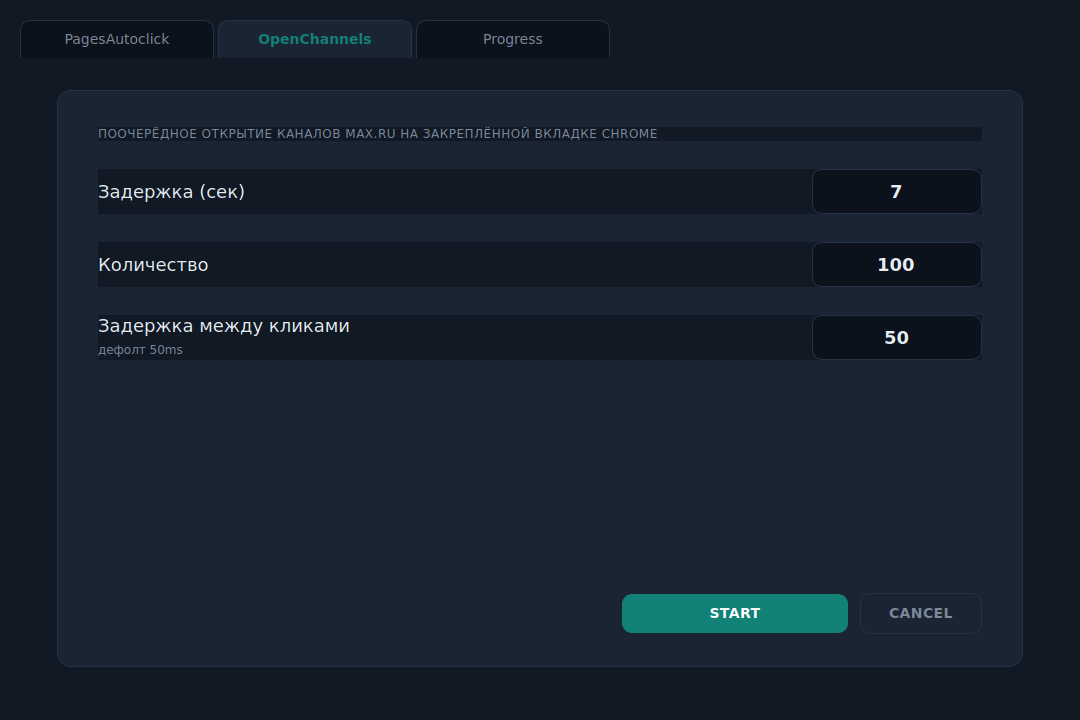
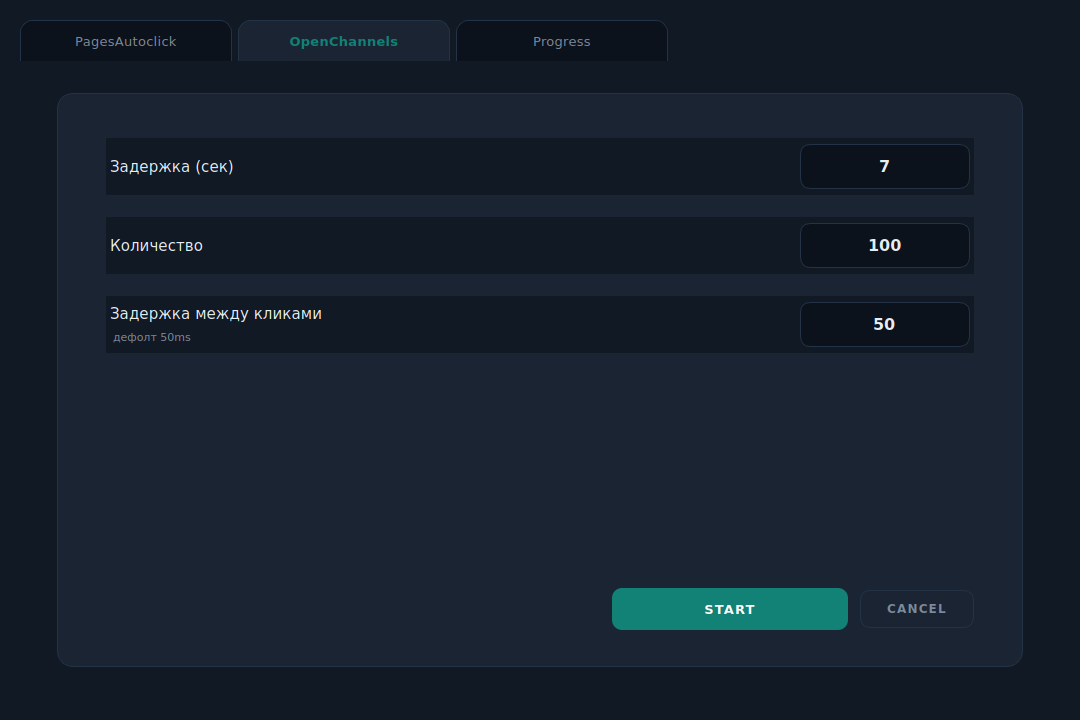
Update application interface with refined styling and layout adjustments
Refines UI styling by updating QSS, improving typography, spacing, and button appearance across all tabs, and updating mockups.

Replit-Commit-Author: Agent
Replit-Commit-Session-Id: fa9c77c0-7a4c-45c5-8648-3131b077b8af
Replit-Commit-Checkpoint-Type: full_checkpoint
Replit-Commit-Event-Id: 039f9c06-eed2-4d52-9831-ea6f28cf6dc1
Replit-Helium-Checkpoint-Created: true

diff --git a/desktop-app/main.py b/desktop-app/main.py
@@ -50,32 +50,35 @@ QSS = f"""
 QMainWindow, QWidget {{
     background-color: {BG_PRIMARY};
     color: {TEXT_PRIMARY};
-    font-family: 'Segoe UI', 'Inter', 'Helvetica Neue', Arial, sans-serif;
-    font-size: 14px;
+    font-family: 'Inter', 'Segoe UI', 'SF Pro Text', 'Helvetica Neue', Arial, sans-serif;
+    font-size: 13px;
 }}
 
 /* Tabs */
 QTabWidget::pane {{
     border: 1px solid {BORDER};
-    border-radius: 12px;
+    border-radius: 14px;
     background-color: {BG_ELEVATED};
     top: -1px;
 }}
 QTabBar {{
     qproperty-drawBase: 0;
     background: transparent;
+    margin-left: 4px;
 }}
 QTabBar::tab {{
     background-color: {BG_SUNKEN};
     color: {TEXT_MUTED};
-    padding: 10px 26px;
-    margin-right: 4px;
+    padding: 12px 30px;
+    margin-right: 6px;
     border: 1px solid {BORDER};
     border-bottom: none;
-    border-top-left-radius: 10px;
-    border-top-right-radius: 10px;
+    border-top-left-radius: 12px;
+    border-top-right-radius: 12px;
     font-weight: 500;
-    min-width: 140px;
+    font-size: 13px;
+    letter-spacing: 0.3px;
+    min-width: 150px;
 }}
 QTabBar::tab:hover {{
     color: {TEXT_PRIMARY};
@@ -91,24 +94,28 @@ QTabBar::tab:selected {{
 /* Labels */
 QLabel#FieldLabel {{
     color: {TEXT_PRIMARY};
-    font-size: 18px;
+    font-size: 15px;
     font-weight: 500;
+    letter-spacing: 0.1px;
 }}
 QLabel#FieldHint {{
     color: {TEXT_MUTED};
-    font-size: 12px;
+    font-size: 11px;
+    font-weight: 400;
+    margin-top: 2px;
 }}
 QLabel#SmallLabel {{
     color: {TEXT_MUTED};
-    font-size: 12px;
-    font-weight: 500;
-    text-transform: uppercase;
-    letter-spacing: 0.5px;
+    font-size: 11px;
+    font-weight: 600;
+    letter-spacing: 1.2px;
+    padding-bottom: 2px;
 }}
 QLabel#TotalAmount {{
     color: {TEXT_PRIMARY};
     font-size: 22px;
     font-weight: 600;
+    letter-spacing: 0.5px;
 }}
 
 /* Inputs */
@@ -118,23 +125,25 @@ QLineEdit {{
     border: 1px solid {BORDER};
     border-radius: 10px;
     padding: 10px 14px;
-    font-size: 16px;
+    font-size: 14px;
     selection-background-color: {SECONDARY};
 }}
 QLineEdit:focus {{
     border-color: {SECONDARY};
 }}
 QLineEdit#NumericInput {{
-    font-size: 18px;
+    font-size: 16px;
     font-weight: 600;
     qproperty-alignment: AlignCenter;
-    min-width: 140px;
+    min-width: 130px;
+    padding: 11px 14px;
 }}
 QLineEdit#TotalInput {{
-    font-size: 18px;
+    font-size: 16px;
     font-weight: 600;
     qproperty-alignment: AlignCenter;
-    color: {TEXT_MUTED};
+    color: {TEXT_PRIMARY};
+    background-color: #0a1018;
 }}
 
 /* Buttons */
@@ -143,11 +152,10 @@ QPushButton {{
     color: white;
     border: none;
     border-radius: 10px;
-    padding: 11px 28px;
-    font-size: 14px;
+    padding: 11px 26px;
+    font-size: 12px;
     font-weight: 600;
-    letter-spacing: 0.4px;
-    text-transform: uppercase;
+    letter-spacing: 1.2px;
 }}
 QPushButton:hover {{
     background-color: {SECONDARY_HOVER};
@@ -163,6 +171,8 @@ QPushButton#GhostButton {{
     background-color: transparent;
     color: {TEXT_PRIMARY};
     border: 1px solid {BORDER};
+    font-weight: 500;
+    letter-spacing: 0.5px;
 }}
 QPushButton#GhostButton:hover {{
     border-color: {SECONDARY};
@@ -179,25 +189,30 @@ QPushButton#DangerButton:hover {{
     background-color: {DANGER};
 }}
 QPushButton#StartButton {{
-    min-width: 170px;
+    min-width: 180px;
+    padding: 13px 28px;
+    font-size: 13px;
 }}
 QPushButton#StartButton[counting="true"] {{
     background-color: transparent;
     color: {EMERALD};
     border: 2px solid {EMERALD};
-    font-size: 22px;
+    font-size: 24px;
     font-weight: 700;
+    letter-spacing: 0;
+    padding: 9px 28px;
 }}
 QPushButton#AddButton {{
     background-color: {SECONDARY};
-    min-width: 100px;
+    min-width: 110px;
+    padding: 11px 18px;
 }}
 
 /* Cards */
 QFrame#Card {{
     background-color: {BG_ELEVATED};
     border: 1px solid {BORDER};
-    border-radius: 14px;
+    border-radius: 16px;
 }}
 QFrame#ProgressRow {{
     background-color: transparent;
@@ -208,23 +223,50 @@ QProgressBar {{
     background-color: {BG_SUNKEN};
     border: 1px solid {BORDER};
     border-radius: 10px;
-    height: 44px;
+    min-height: 42px;
+    max-height: 42px;
     text-align: center;
     color: {TEXT_PRIMARY};
     font-weight: 600;
-    font-size: 14px;
+    font-size: 13px;
 }}
 QProgressBar::chunk {{
     background-color: {EMERALD};
     border-radius: 9px;
+    margin: 1px;
 }}
 QProgressBar#TotalProgress {{
-    height: 52px;
-    font-size: 15px;
+    min-height: 52px;
+    max-height: 52px;
+    font-size: 14px;
 }}
 QProgressBar#TotalProgress::chunk {{
     background-color: qlineargradient(x1:0, y1:0, x2:1, y2:0,
         stop:0 {SECONDARY}, stop:1 {EMERALD});
+}}
+
+/* Radio button (the round selector on the left of each progress bar) */
+QPushButton#PickerDot {{
+    background-color: transparent;
+    color: {TEXT_MUTED};
+    border: 1px solid {BORDER};
+    border-radius: 14px;
+    min-width: 28px;
+    max-width: 28px;
+    min-height: 28px;
+    max-height: 28px;
+    padding: 0;
+    font-size: 18px;
+    font-weight: 700;
+}}
+QPushButton#PickerDot:hover {{
+    border-color: {SECONDARY};
+    color: {SECONDARY};
+}}
+QPushButton#PickerDot:checked {{
+    border-color: {SECONDARY};
+    color: {SECONDARY};
+    background-color: rgba(18, 130, 119, 0.12);
 }}
 """
 
@@ -240,11 +282,12 @@ def make_field_row(label_text: str, default_value: str, hint: str | None = None,
     row = QWidget()
     row.setSizePolicy(QSizePolicy.Policy.Expanding, QSizePolicy.Policy.Fixed)
     h = QHBoxLayout(row)
-    h.setContentsMargins(0, 0, 0, 0)
+    h.setContentsMargins(4, 6, 4, 6)
     h.setSpacing(20)
 
     label_box = QVBoxLayout()
-    label_box.setSpacing(2)
+    label_box.setSpacing(0)
+    label_box.setContentsMargins(0, 0, 0, 0)
 
     label = QLabel(label_text)
     label.setObjectName("FieldLabel")
@@ -259,7 +302,7 @@ def make_field_row(label_text: str, default_value: str, hint: str | None = None,
 
     edit = QLineEdit(default_value)
     edit.setObjectName("NumericInput")
-    edit.setFixedWidth(160)
+    edit.setFixedWidth(170)
     if numeric:
         edit.setValidator(QIntValidator(0, 10_000_000))
     h.addWidget(edit, 0, Qt.AlignmentFlag.AlignRight | Qt.AlignmentFlag.AlignVCenter)
@@ -281,12 +324,8 @@ class AutoclickTab(QWidget):
         card = QFrame()
         card.setObjectName("Card")
         card_layout = QVBoxLayout(card)
-        card_layout.setContentsMargins(40, 36, 40, 32)
-        card_layout.setSpacing(28)
-
-        intro = QLabel("Автокликер для активной страницы")
-        intro.setObjectName("SmallLabel")
-        card_layout.addWidget(intro)
+        card_layout.setContentsMargins(48, 44, 48, 36)
+        card_layout.setSpacing(22)
 
         delay_row, self.delay_input = make_field_row("Задержка (сек)", "5")
         count_row, self.count_input = make_field_row("Количество", "700")
@@ -332,13 +371,8 @@ class OpenChannelsTab(QWidget):
         card = QFrame()
         card.setObjectName("Card")
         card_layout = QVBoxLayout(card)
-        card_layout.setContentsMargins(40, 36, 40, 32)
-        card_layout.setSpacing(28)
-
-        intro = QLabel("Поочерёдное открытие каналов max.ru на закреплённой вкладке Chrome")
-        intro.setObjectName("SmallLabel")
-        intro.setWordWrap(True)
-        card_layout.addWidget(intro)
+        card_layout.setContentsMargins(48, 44, 48, 36)
+        card_layout.setSpacing(22)
 
         delay_row, self.delay_input = make_field_row("Задержка (сек)", "7")
         count_row, self.count_input = make_field_row("Количество", "100")
@@ -419,23 +453,23 @@ class ProgressTab(QWidget):
         card = QFrame()
         card.setObjectName("Card")
         grid = QHBoxLayout(card)
-        grid.setContentsMargins(36, 32, 36, 32)
-        grid.setSpacing(36)
+        grid.setContentsMargins(44, 36, 44, 36)
+        grid.setSpacing(40)
 
         # Left column: progress bars
         left = QVBoxLayout()
-        left.setSpacing(18)
+        left.setSpacing(14)
 
         self.credit_bar = ProgressBarRow("Кредит", self.TARGET_CREDIT)
         self.computer_bar = ProgressBarRow("Компьютер", self.TARGET_COMPUTER)
         self.apartment_bar = ProgressBarRow("Квартира", self.TARGET_APARTMENT)
         self.total_bar = ProgressBarRow("Общий", self.TARGET_TOTAL)
         self.total_bar.bar.setObjectName("TotalProgress")
-        # Mock visible progress for the screenshot
-        self.credit_bar.set_value(1900)
+        # All bars start at 0
+        self.credit_bar.set_value(0)
         self.computer_bar.set_value(0)
         self.apartment_bar.set_value(0)
-        self.total_bar.set_value(1900)
+        self.total_bar.set_value(0)
 
         # Section label for which target the input is going to
         target_select = QLabel("Прогресс")
@@ -462,10 +496,10 @@ class ProgressTab(QWidget):
         right = QVBoxLayout()
         right.setSpacing(20)
 
-        right.addWidget(self._build_input_block("Добавить", "1400", numeric=True,
+        right.addWidget(self._build_input_block("Добавить", "", numeric=True,
                                                 button_text="Добавить",
                                                 attr_name="add_input"))
-        right.addWidget(self._build_input_block("Осталось", "174 200", numeric=False,
+        right.addWidget(self._build_input_block("Осталось", "1 800 000", numeric=False,
                                                 button_text=None,
                                                 attr_name="remaining_input",
                                                 readonly=True))
@@ -497,13 +531,11 @@ class ProgressTab(QWidget):
         layout.setSpacing(12)
 
         radio = QPushButton("●")
-        radio.setObjectName("GhostButton")
-        radio.setFixedWidth(46)
+        radio.setObjectName("PickerDot")
         radio.setCheckable(True)
         if name == "Кредит":
             radio.setChecked(True)
-            radio.setStyleSheet(f"color: {SECONDARY}; border-color: {SECONDARY};")
-        layout.addWidget(radio)
+        layout.addWidget(radio, 0, Qt.AlignmentFlag.AlignVCenter)
         layout.addWidget(bar_widget, 1)
         return wrap
 
@@ -512,19 +544,21 @@ class ProgressTab(QWidget):
                            readonly: bool = False) -> QWidget:
         block = QFrame()
         block.setObjectName("Card")
+        block.setStyleSheet(f"QFrame#Card {{ background-color: #16202d; }}")
         v = QVBoxLayout(block)
-        v.setContentsMargins(20, 16, 20, 18)
-        v.setSpacing(8)
+        v.setContentsMargins(22, 16, 22, 18)
+        v.setSpacing(10)
 
         small = QLabel(label_text)
         small.setObjectName("SmallLabel")
         v.addWidget(small)
 
         row = QHBoxLayout()
-        row.setSpacing(10)
+        row.setSpacing(12)
 
         edit = QLineEdit(value)
         edit.setObjectName("NumericInput")
+        edit.setPlaceholderText("0" if numeric and not readonly else "")
         if numeric:
             edit.setValidator(QIntValidator(0, 10_000_000))
         if readonly:
@@ -545,11 +579,13 @@ class ProgressTab(QWidget):
     def _build_total_block(self) -> QWidget:
         block = QFrame()
         block.setObjectName("Card")
+        block.setStyleSheet(f"QFrame#Card {{ background-color: #16202d; }}")
         v = QVBoxLayout(block)
-        v.setContentsMargins(20, 16, 20, 18)
-        v.setSpacing(6)
+        v.setContentsMargins(22, 16, 22, 20)
+        v.setSpacing(8)
         small = QLabel("Цель")
         small.setObjectName("SmallLabel")
+        small.setAlignment(Qt.AlignmentFlag.AlignCenter)
         v.addWidget(small)
         amount = QLabel("1 800 000")
         amount.setObjectName("TotalAmount")
